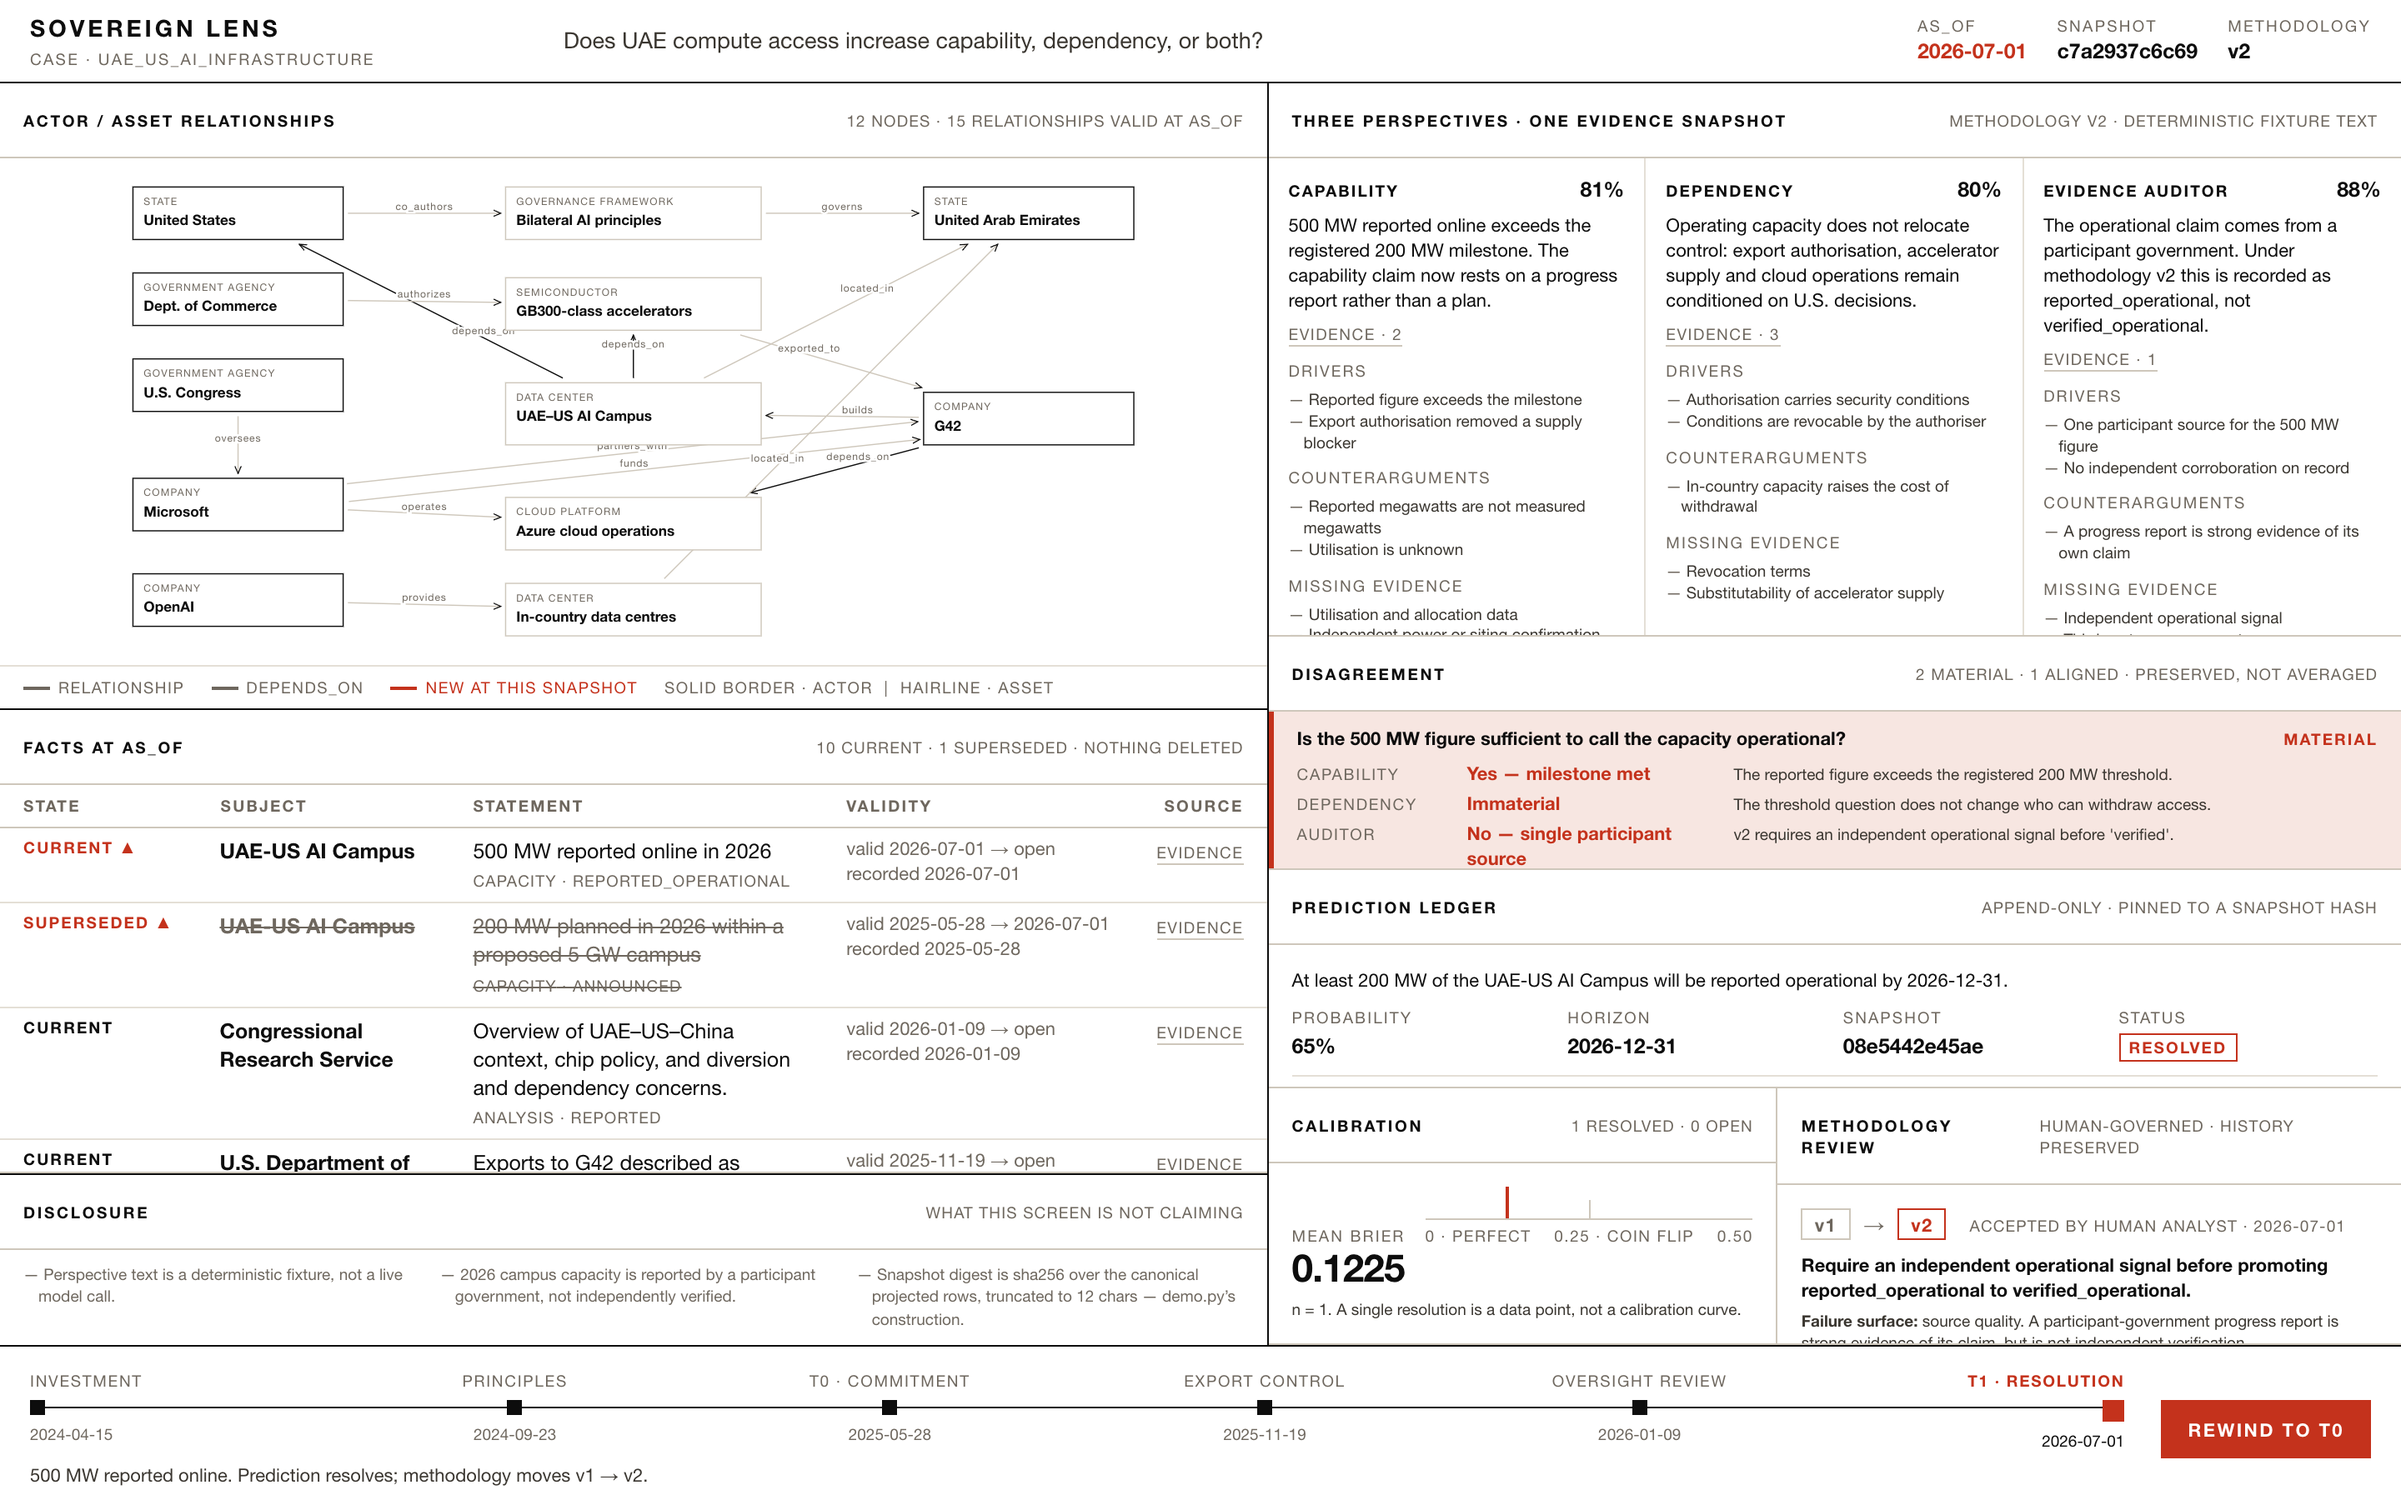
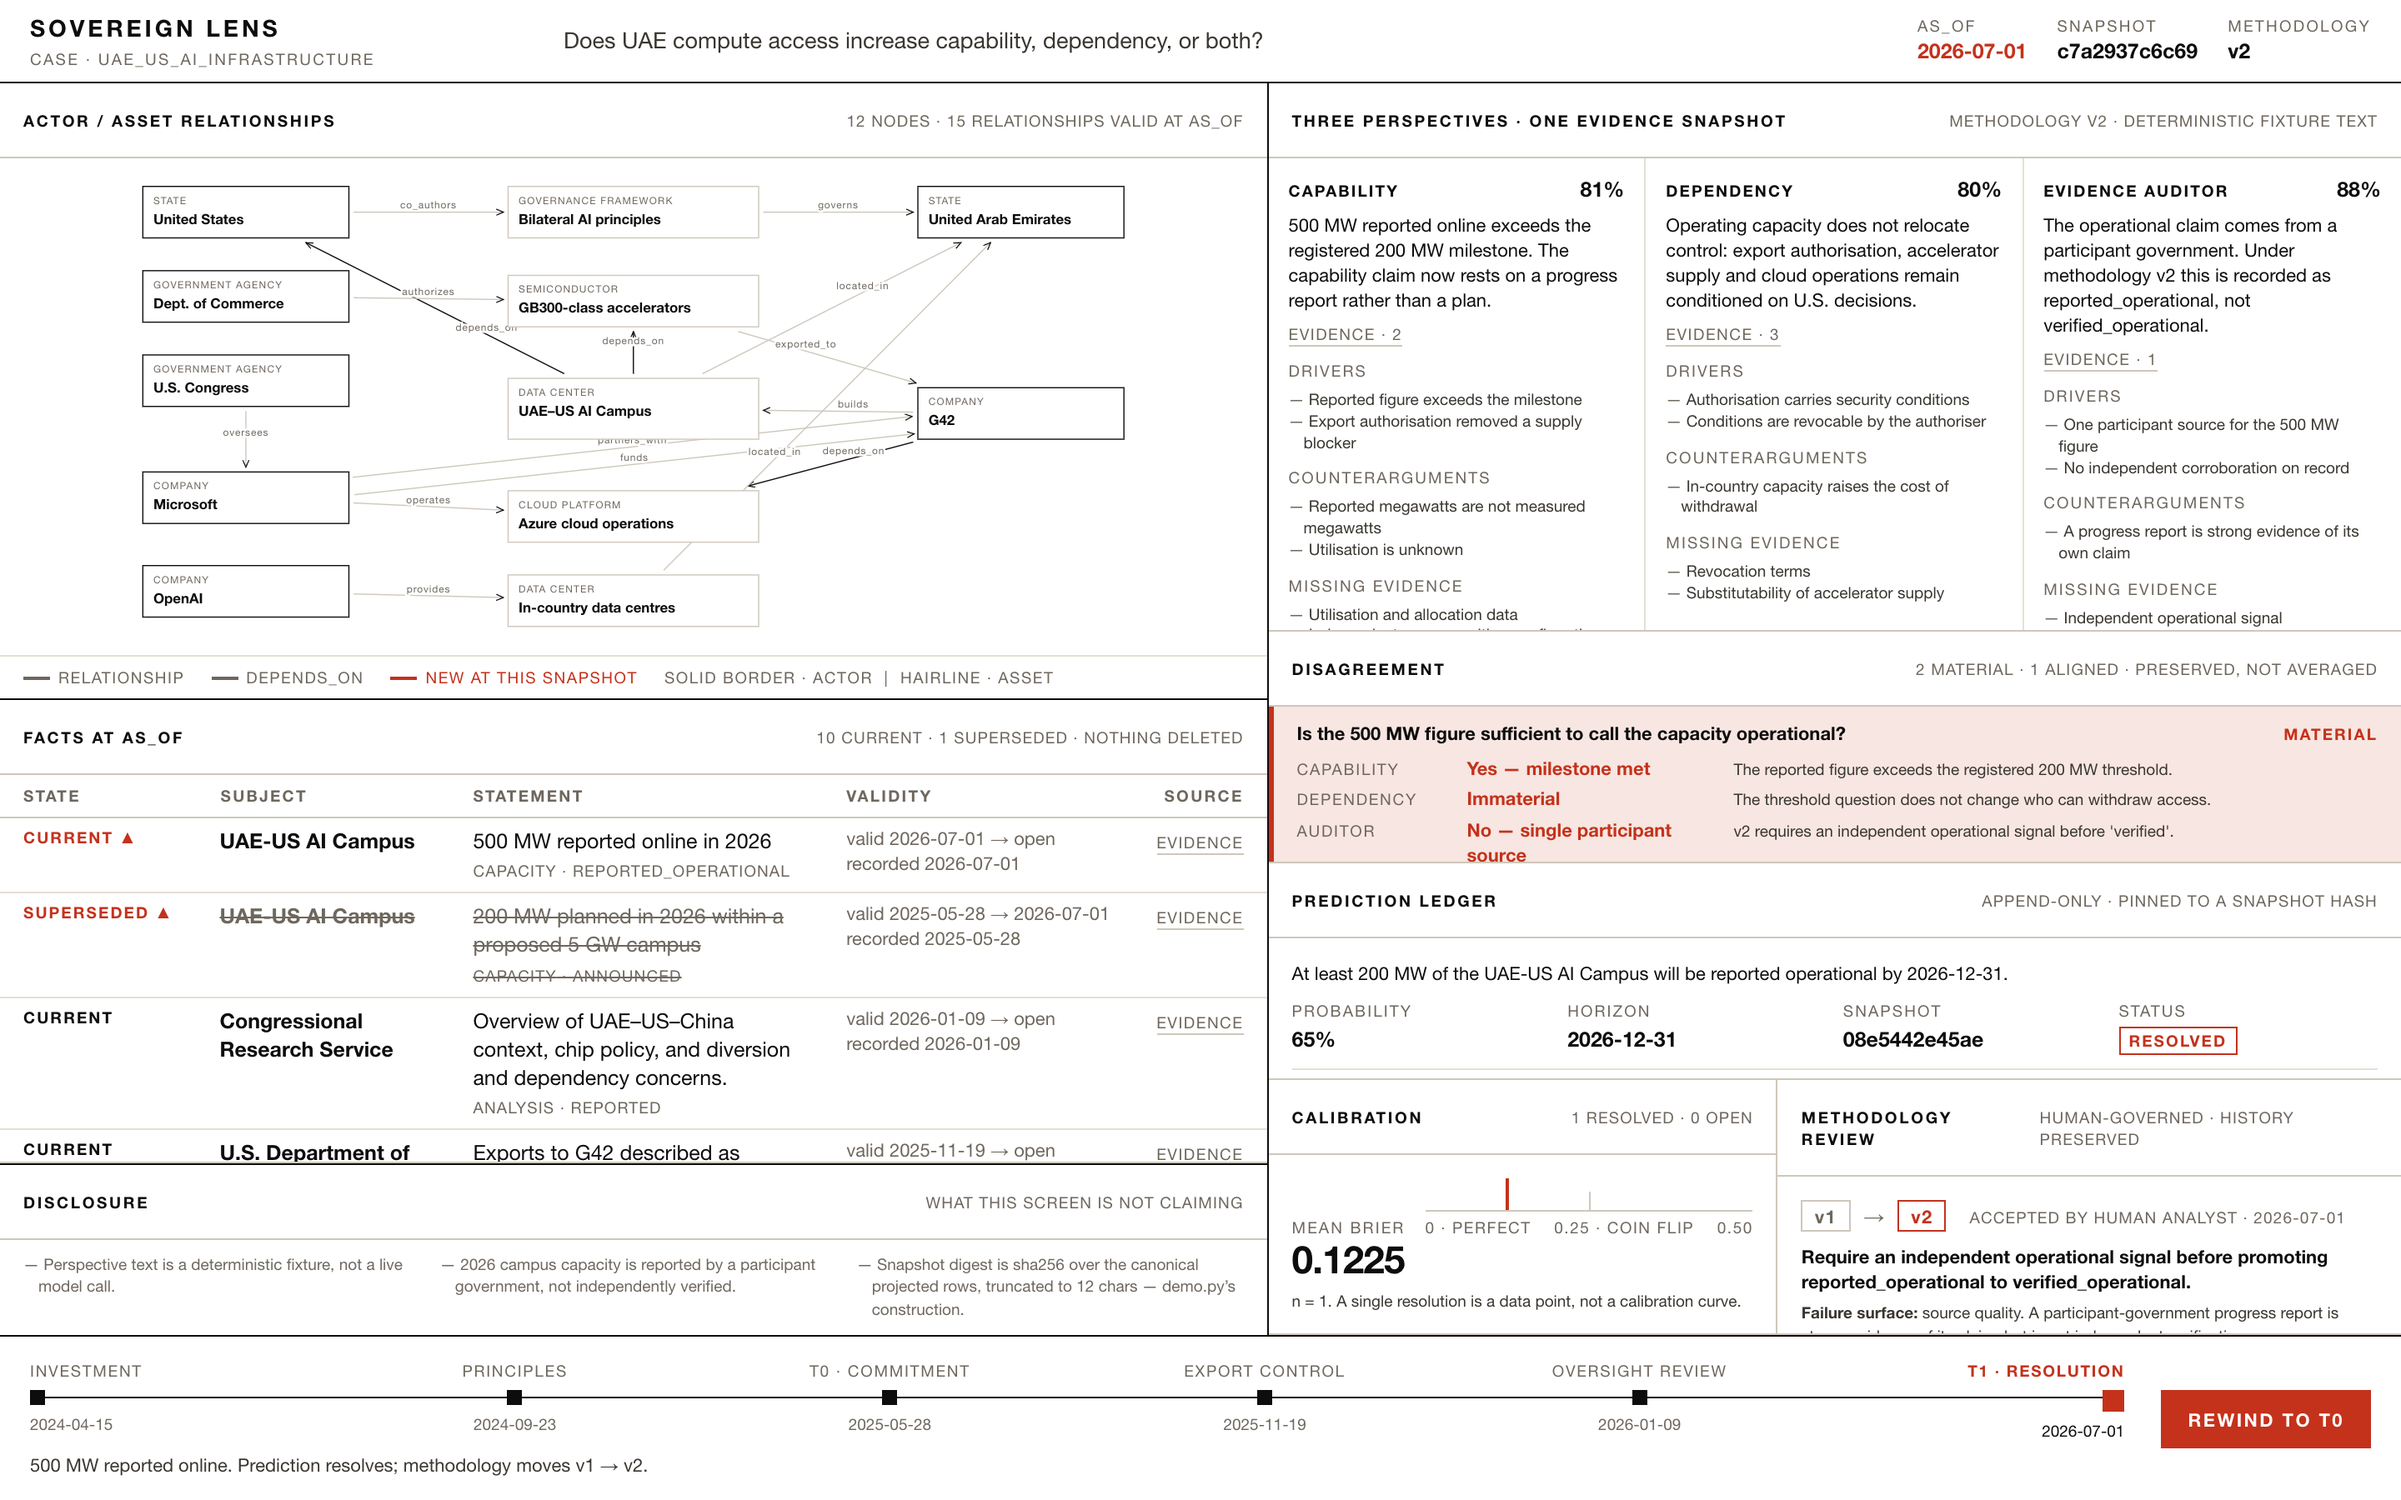
Pin the shell bands to their grid rows so the footer is not clipped
Grid children default to min-height: auto, so the scrubber pushed its track
6px past the viewport. body { overflow: hidden } hid the symptom while
cutting the bottom of the timeline note. Pin every band to its row, give the
footer the height it actually needs, and verify the document no longer
exceeds 1440x900.

Claude-Session: https://claude.ai/code/session_014QbPz3zyTHL4DG5ZXvr1qn

diff --git a/web/src/styles.css b/web/src/styles.css
@@ -56,9 +56,14 @@ a { color: var(--ink); text-underline-offset: 2px; }
 
 .shell {
   display: grid;
-  grid-template-rows: 50px minmax(0, 1fr) 92px;
+  grid-template-rows: 50px minmax(0, 1fr) 98px;
   height: 100%;
+  overflow: hidden;
 }
+
+/* Grid children default to min-height: auto, which lets a tall child push the
+   row past its track and silently clip the footer. Pin every band to its row. */
+.shell > * { min-height: 0; }
 
 .masthead {
   display: grid;
@@ -433,6 +438,7 @@ a { color: var(--ink); text-underline-offset: 2px; }
 
 .scrubber {
   display: grid;
+  overflow: hidden;
   grid-template-columns: minmax(0, 1fr) auto;
   align-items: center;
   gap: 22px;
